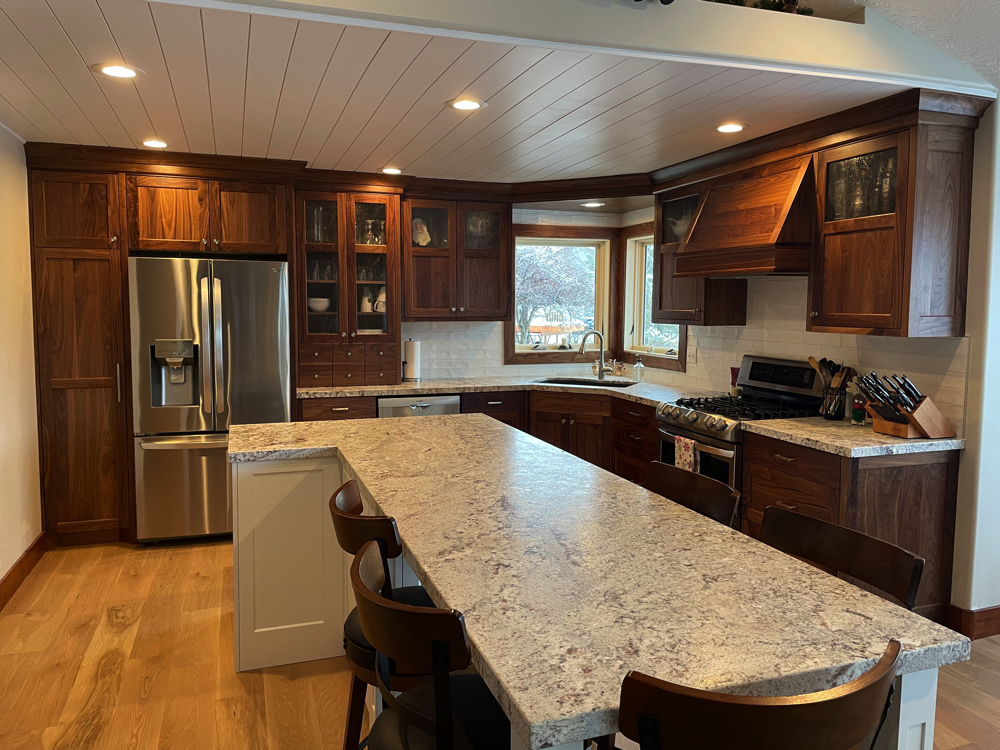
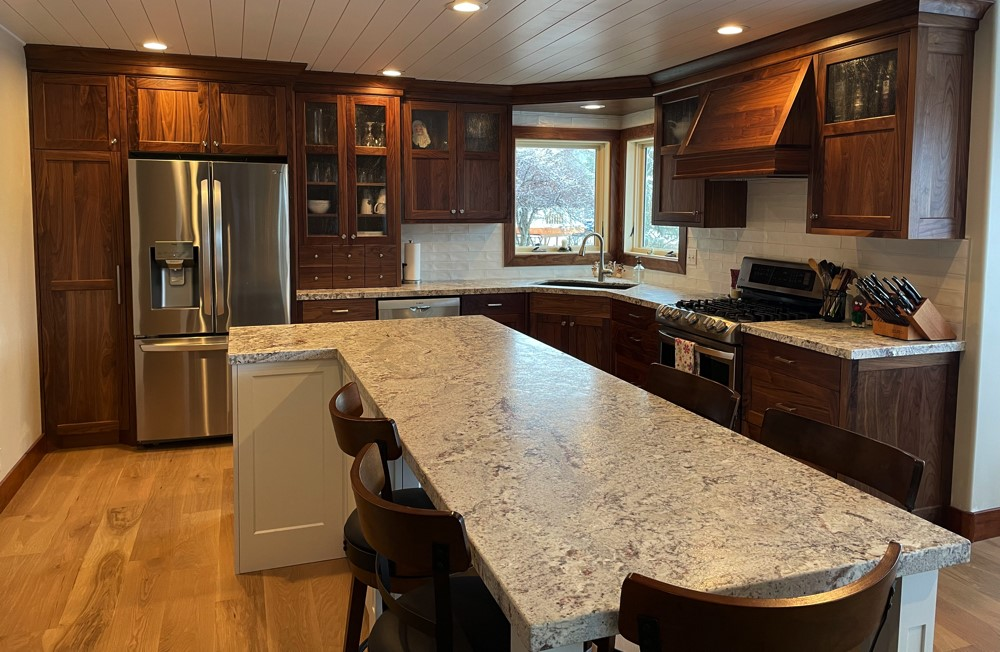
carousel

diff --git a/src/components/Carousel.js b/src/components/Carousel.js
@@ -1,0 +1,65 @@
+import heroOne from 'assets/images/landing/kitchen-remodel-8.jpg';
+import heroTwo from 'assets/images/landing/kitchen-remodel-3.jpg';
+import heroThree from 'assets/images/landing/kitchen-remodel-10.jpg';
+
+import { useState, useEffect, useRef, useCallback } from 'react';
+import { cn } from 'utils/cn';
+
+export const Carousel = () => {
+  const images = [heroOne, heroTwo, heroThree];
+  const [currentIndex, setCurrentIndex] = useState(0);
+  const [isSliding, setIsSliding] = useState(false);
+  const intervalRef = useRef(null);
+
+  const startInterval = useCallback(() => {
+    clearInterval(intervalRef.current);
+    intervalRef.current = setInterval(() => {
+      setIsSliding(true);
+      setTimeout(() => {
+        setCurrentIndex((prevIndex) => (prevIndex + 1) % images.length);
+        setIsSliding(false);
+      }, 500);
+    }, 7000);
+  }, [images.length]);
+
+  useEffect(() => {
+    startInterval();
+
+    return () => clearInterval(intervalRef.current);
+  }, [startInterval]);
+
+  const handleDotClick = (index) => {
+    setCurrentIndex(index);
+    startInterval();
+  };
+
+  return (
+    <div className="carousel-container overflow-hidden relative w-[98%] mx-auto">
+      <div
+        className={`carousel-inner w-full h-full flex transition-transform duration-500 ease-in-out ${
+          isSliding ? 'transform -translate-x-full' : ''
+        }`}
+        style={{ transform: `translateX(-${currentIndex * 100}%)` }}>
+        {images.map((image, index) => (
+          <img
+            key={index}
+            src={image}
+            alt={`Slide ${index}`}
+            className="flex-shrink-0 w-full"
+          />
+        ))}
+      </div>
+      <div className="absolute flex justify-between w-24 h-5 -translate-x-1/2 bottom-10 left-1/2">
+        {images.map((_, index) => (
+          <div
+            key={index}
+            className={cn(
+              'bg-white size-4 cursor-pointer shadow-sm',
+              currentIndex === index ? 'bg-opacity-90' : 'bg-opacity-50'
+            )}
+            onClick={() => handleDotClick(index)}></div>
+        ))}
+      </div>
+    </div>
+  );
+};

diff --git a/src/components/LandingServices.js b/src/components/LandingServices.js
@@ -6,20 +6,31 @@ export const LandingServices = () => {
   return (
     <div className="w-10/12 mx-auto md:mt-20">
       <h2 className="text-3xl border-b-[1px] py-3">Our Services</h2>
-      {landingServicesData.map((item) => (
-        <HoverImage
-          image={item.image}
-          width="500px"
-          height="250px"
-          offsetX={35}
-          offsetY={-5}>
+      <div className="hidden lg:block">
+        {landingServicesData.map((item) => (
+          <HoverImage
+            image={item.image}
+            width="500px"
+            height="250px"
+            offsetX={35}
+            offsetY={-5}>
+            <Link to={item.link}>
+              <div className="border-b-[1px] py-7 pl-3 hover:bg-brown hover:bg-opacity-5">
+                {item.name}
+              </div>
+            </Link>
+          </HoverImage>
+        ))}
+      </div>
+      <div className="lg:hidden">
+        {landingServicesData.map((item) => (
           <Link to={item.link}>
-            <div className="border-b-[1px] py-3 pl-3 hover:bg-brown hover:bg-opacity-10">
+            <div className="border-b-[1px] py-7 pl-3 hover:bg-brown hover:bg-opacity-5">
               {item.name}
             </div>
           </Link>
-        </HoverImage>
-      ))}
+        ))}
+      </div>
     </div>
   );
 };

diff --git a/src/pages/Landing.js b/src/pages/Landing.js
@@ -1,4 +1,4 @@
-import heroImage from 'assets/images/landing/kitchen-remodel-10-cropped.jpg';
+import { Carousel } from 'components/Carousel';
 import { LandingFaqs } from 'components/LandingFaqs';
 import { LandingServices } from 'components/LandingServices';
 import { Spacer } from 'components/Spacer';
@@ -14,12 +14,7 @@ export const Landing = () => {
             Meets Our Craftsmanship
           </p>
         </h2>
-        <img
-          src={heroImage}
-          alt="kitchen remodel"
-          className="w-[98%] mx-auto"
-        />
-        {/* faqs */}
+        <Carousel />
         <LandingFaqs />
         <LandingServices />
         <Spacer />

diff --git a/src/utils/HoverImage.js b/src/utils/HoverImage.js
@@ -25,7 +25,7 @@ function HoverImage({ children, image, width, height, offsetX, offsetY }) {
       {children}
       {isHovered && (
         <div
-          className="absolute z-50 bg-center bg-no-repeat bg-cover pointer-events-none border-[1px]"
+          className="absolute z-50 bg-center bg-no-repeat bg-cover pointer-events-none"
           style={{
             backgroundImage: `url(${image})`,
             width,

diff --git a/src/App.css b/src/App.css
@@ -19,3 +19,19 @@
   font-optical-sizing: auto;
   font-style: normal;
 }
+
+.carousel-container {
+  position: relative;
+  width: 98%;
+  height: 100%;
+}
+
+.carousel-inner {
+  display: flex;
+  transition: transform 0.5s ease-in-out;
+}
+
+.carousel-inner img {
+  min-width: 100%;
+  height: auto;
+}
